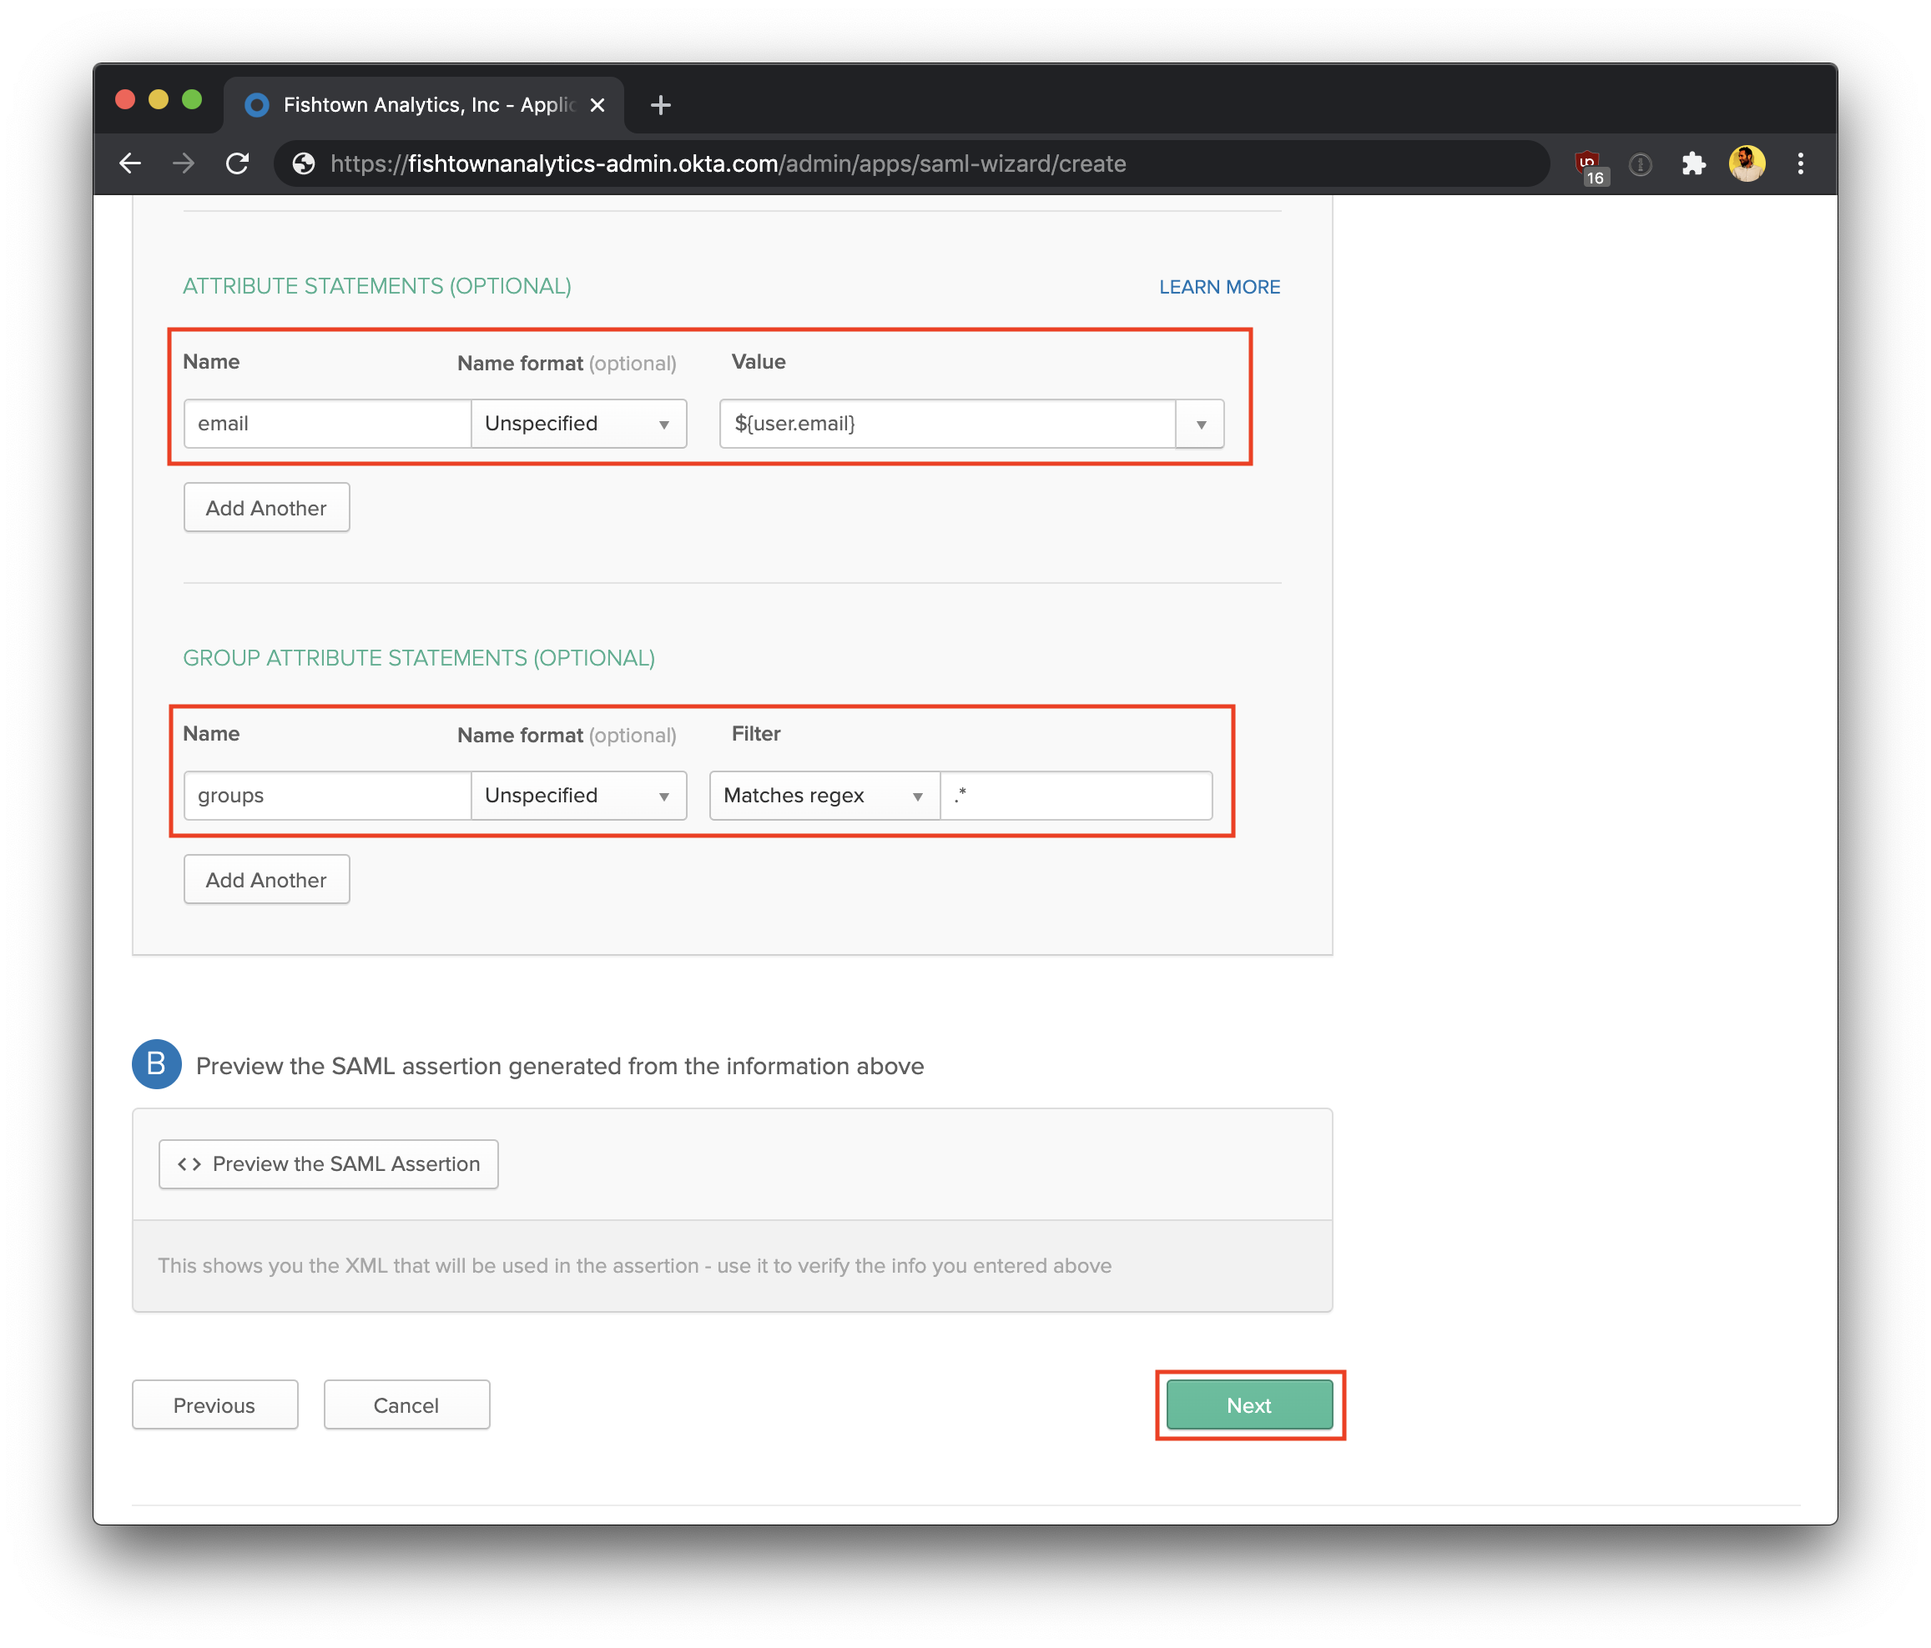
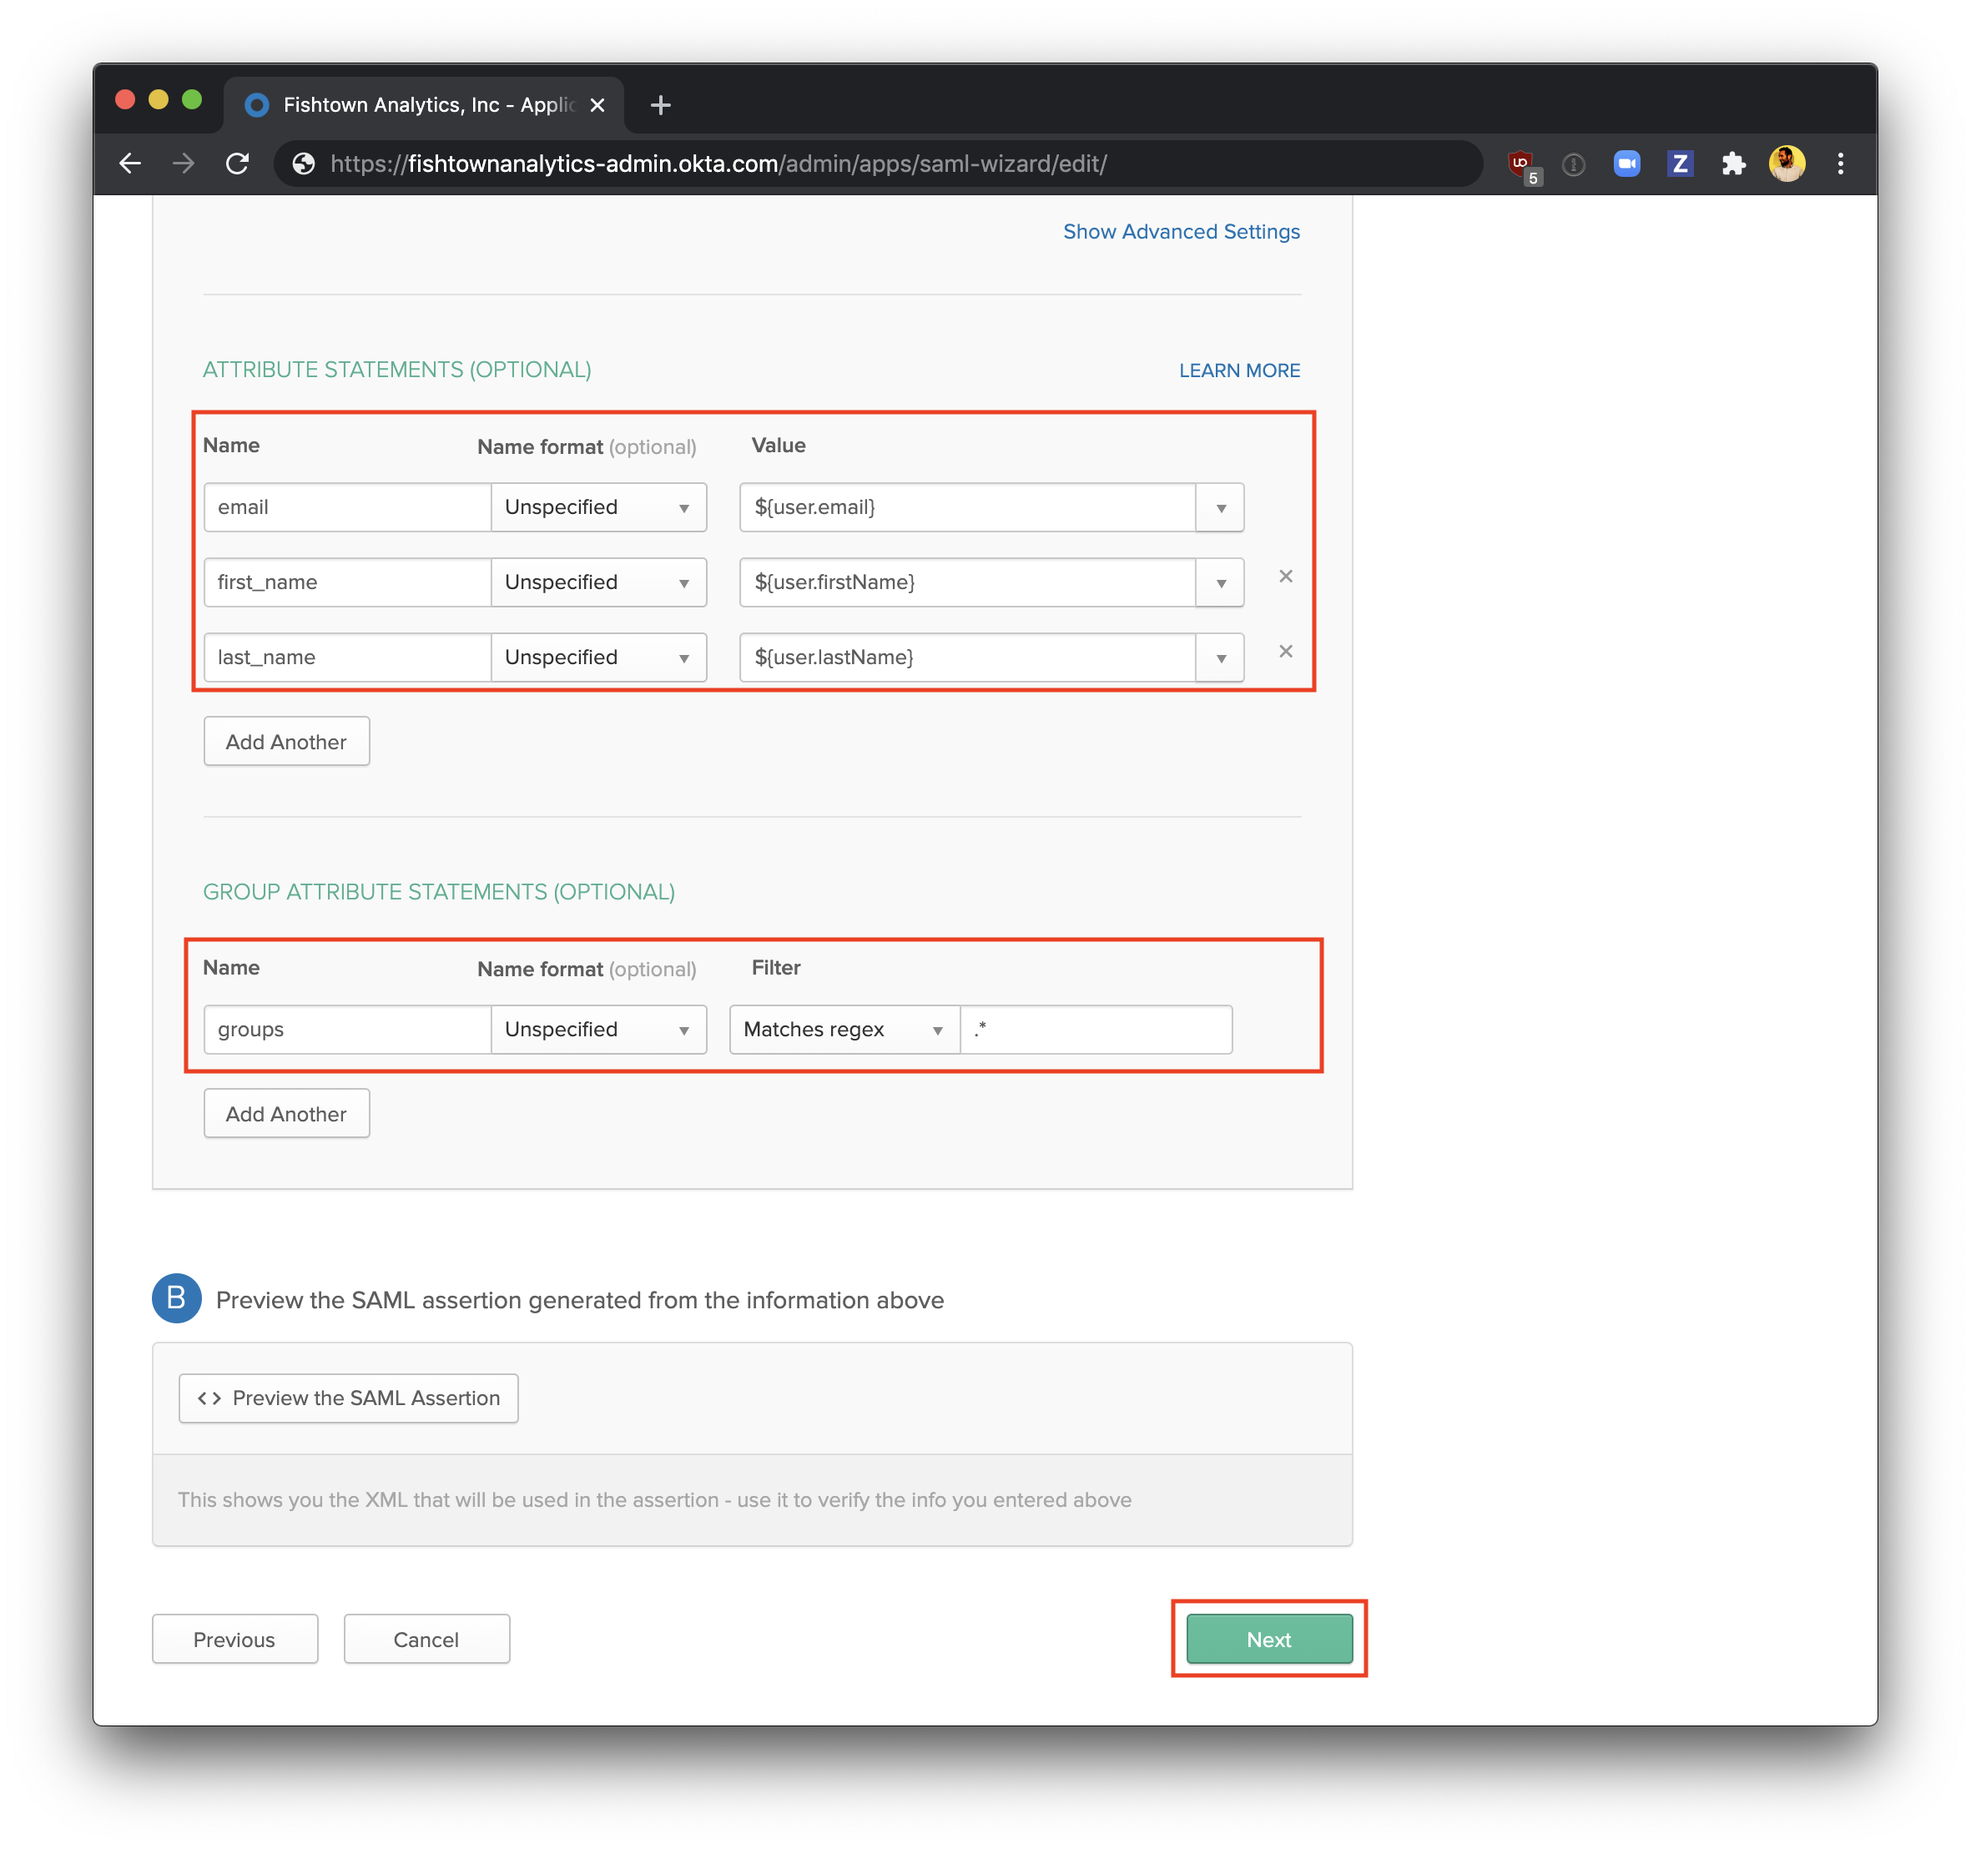
Update required Okta IdP Mappings

diff --git a/website/docs/docs/dbt-cloud/dbt-cloud-enterprise/setting-up-sso-with-okta.md b/website/docs/docs/dbt-cloud/dbt-cloud-enterprise/setting-up-sso-with-okta.md
@@ -95,26 +95,25 @@ On the **SAML Settings** page, enter the following values:
 <!-- TODO : Will users need to change the Name ID format and Application
 username on this screen? -->
 
-:::caution User and Group Attributes
+Use the **Attribute Statements** and **Group Attribute Statements** forms to
+map your organization's Okta User and Group Attributes to the format that
+dbt Cloud expects.
 
-dbt Cloud uses SAML settings provided by Okta to enforce role-based access
-control. If the Group Attribute statements shown below are misconfigured, then
-users may not be permissioned to projects correctly in dbt Cloud.
+Expected **User Attribute Statements**:
 
-:::
+| Name           | Name format | Value                | Description                |
+| -------------- | ----------- | -------------------- | -------------------------- |
+| `email`        | Unspecified | `${user.email}`      | _The user's email address_ |
+| `first_name`   | Unspecified | `${user.firstName}`  | _The user's first name_    |
+| `last_name`    | Unspecified | `${user.lastName}`   | _The user's last name_     |
 
-Under **Attribute Statements**, enter the following:
 
-* **Name**: email
-* **Name format**: Unspecified
-* **Value**: `${user.email}`
+Expected **Group Attribute Statements**:
 
-Under **Group Attribute Statments**, enter the following:
+| Name     | Name format | Filter        | Value | Description                           |
+| -------- | ----------- | ------------- | ----- | ------------------------------------- |
+| `groups` | Unspecified | Matches regex | `.*`  | _The groups that the user belongs to_ |
 
-* **Name**: groups
-* **Name format**: Unspecified
-* **Filter**: Matches regex
-* **Value**: `.*`
 
 **Note:** You may use a more restrictive Group Attribute Statement than the
 example shown above. For example, if all of your dbt Cloud groups start with
